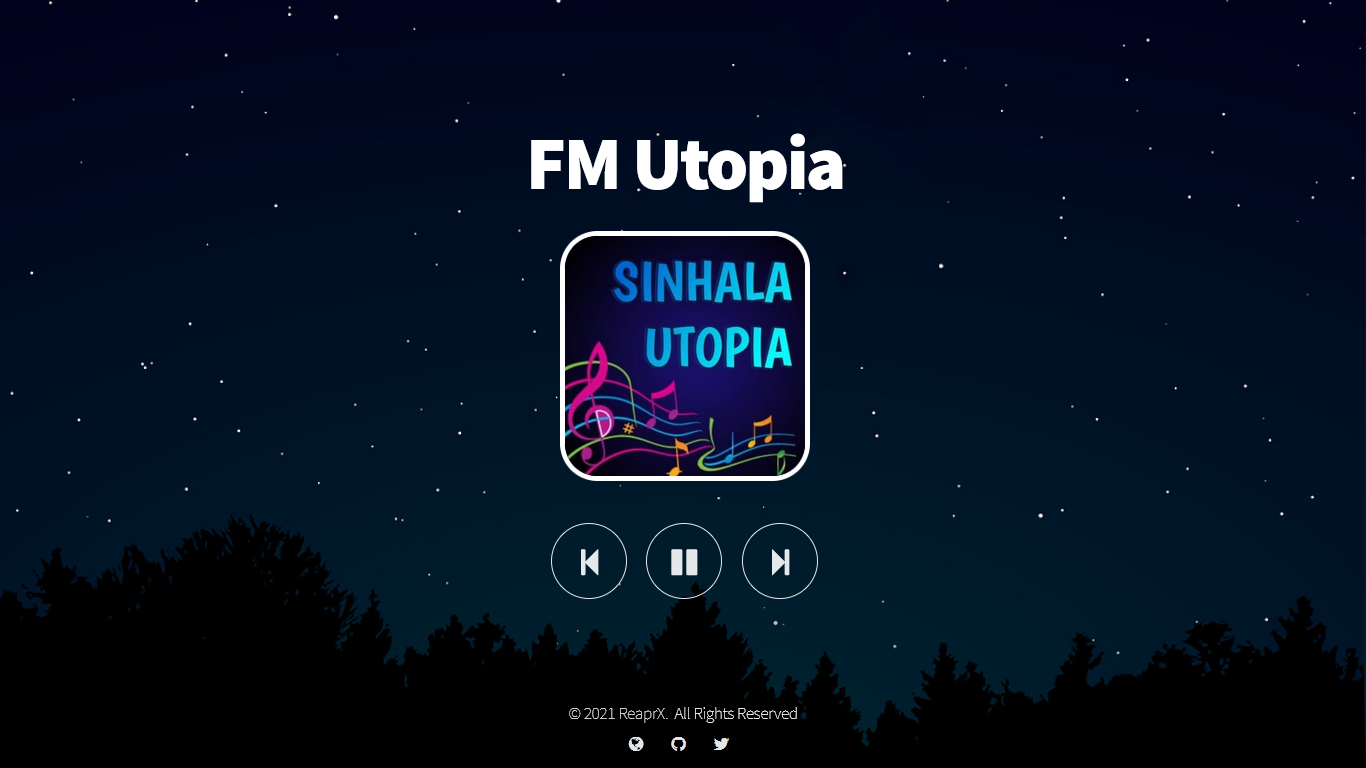
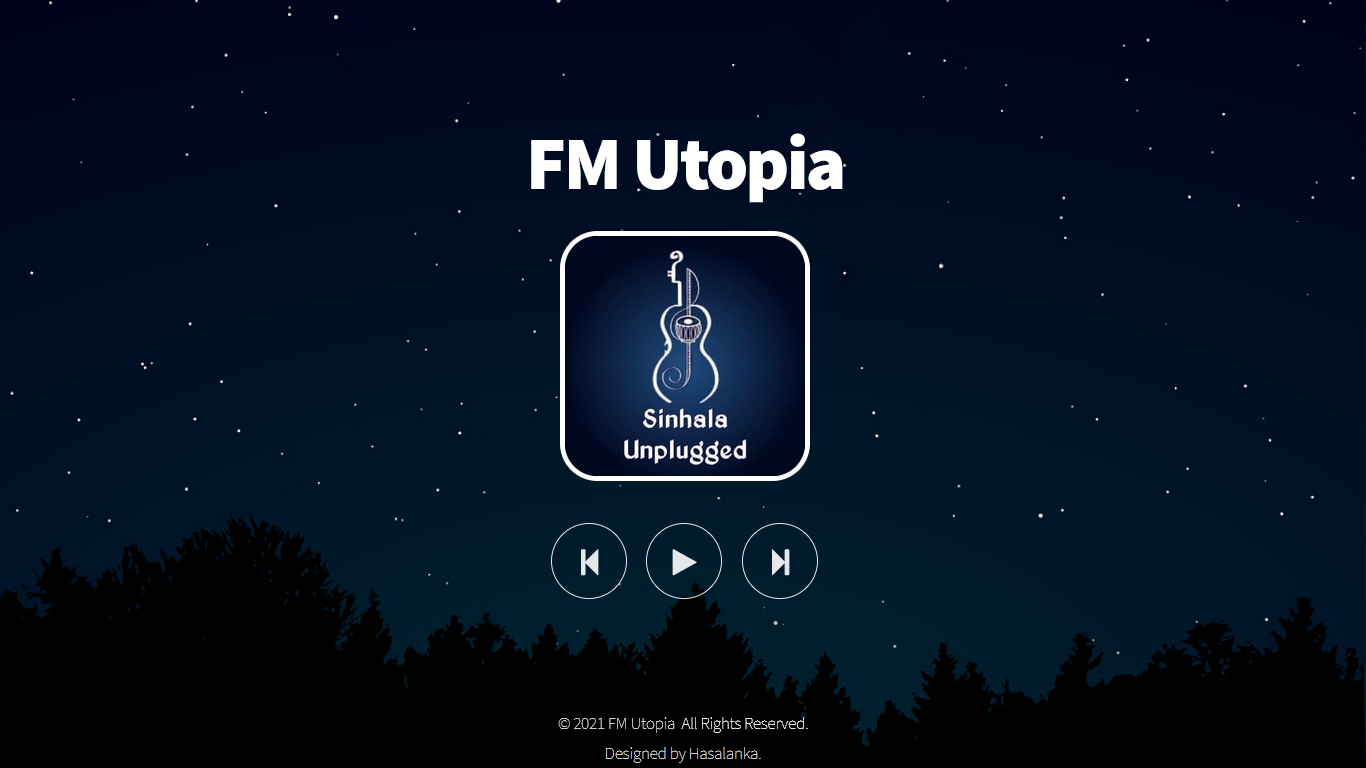
Add new station (#5)
* Add new station

* Update README.md

diff --git a/index.html b/index.html
@@ -4,14 +4,14 @@
 		<title>FM Utopia</title>
 		<meta charset="utf-8" />
 		<meta name="title" content="FM Utopia">
-		<meta name="description" content="FM Utopia is a one of the most popular Online Radio Station in Sri Lanka with multi stations including Sinhala,English and Lo-Fi Music.">
+		<meta name="description" content="FM Utopia is a one of the most popular Online Radio Station in Sri Lanka with few stations including Sinhala,English and Lo-Fi Music.">
 		<meta name="keywords" content="FM Utopia, Utopia FM, Utopia, FM, Online Radio Station, Utopia Radio,Sri Lanka">
 		<meta name="robots" content="index, follow">
 		<meta name="language" content="English">
 		<meta name="author" content="Hasalanka Seneviratne">
 		<meta itemprop="image" src="assets/css/images/Capture.PNG" />
 		<meta name="twitter:title" content="FM Utopia">
-		<meta name="twitter:description" content="FM Utopia is a one of the most popular Online Radio Station in Sri Lanka with multi stations including Sinhala,English and Lo-Fi Music."">
+		<meta name="twitter:description" content="FM Utopia is a one of the most popular Online Radio Station in Sri Lanka with few stations including Sinhala,English and Lo-Fi Music.">
 		<meta name="twitter:image" content="assets/css/images/Capture.PNG">
 		<meta name="twitter:card" content="summary_large_image">
 		<meta name="viewport" content="width=device-width, initial-scale=1" />
@@ -55,8 +55,8 @@
 			</div>
 		</div>
 		<div class="footer">
-			<p align="center"><a href="https://FmUtopia.tk">© 2021 FM Utopia. </a>&nbsp; All Rights Reserved</p>
-			<p><a href="https://reaprx.tk" target="_blank">Designed by Hasalanka</a></p>			
+			<p align="center"><a href="https://FmUtopia.tk">© 2021 FM Utopia.</a>&nbsp; All Rights Reserved</p>
+            <p><a href="https://reaprx.tk" target="_blank">Designed by Hasalanka.</a></p>			
          </div>
 		<script>
 			window.onload = function() { document.body.className = ''; }

diff --git a/playback.js b/playback.js
@@ -1,7 +1,8 @@
 const sources = [
   "http://stream.zeno.fm/ffzk298hx38uv", // sinhala
   "http://stream.zeno.fm/fgrwvmd8u18uv", // english
-  "http://stream.zeno.fm/zkq78rdky38uv",
+  "http://stream.zeno.fm/zkq78rdky38uv", // LO-FI
+  "http://stream.zeno.fm/n8btvhybyf9uv", // Trance
 ];
 
 
@@ -9,6 +10,7 @@ const stimages = [
 	"assets/css/images/img1.jpg",
 	"assets/css/images/img2.jpg",
 	"assets/css/images/img3.jpg",
+    "assets/css/images/img4.jpg",
 ]
 
 let playingIndex = 0; // current radio
@@ -17,7 +19,7 @@ let music = null;
 
 setTimeout(function(){
     loadStream(playingIndex);
-}, 1);
+}, 3);
 
 function loadStream(index){
   if(playing && music !== null){
@@ -42,7 +44,7 @@ function destroyStream(){
 
 function forward(){
 	destroyStream();
-	if(playingIndex<2){
+	if(playingIndex<3){
 		playingIndex += 1
 	} else {
 		playingIndex = 0
@@ -55,7 +57,7 @@ function backward(){
 	if(playingIndex>0){
 		playingIndex -= 1
 	} else {
-		playingIndex = 2
+		playingIndex = 3
 	};
 	loadStream(playingIndex);		
 }	

diff --git a/README.md b/README.md
@@ -5,13 +5,13 @@
 ****
 <p align="center">
 <img src="https://api.netlify.com/api/v1/badges/58656c70-c9ab-4630-8ae8-f0573a006973/deploy-status">
-<img src="https://img.shields.io/github/forks/reaprx/fm-utopia-web?style=for-the-badge">
-<img src="https://img.shields.io/github/stars/reaprx/fm-utopia-web?style=for-the-badge">
-<img src="https://img.shields.io/github/issues/reaprx/fm-utopia-web?style=for-the-badge">
-<img src="https://img.shields.io/github/search/reaprx/fm-utopia-web/Hit?style=for-the-badge">
-<img src="https://img.shields.io/github/repo-size/reaprx/fm-utopia-web?style=for-the-badge">
-<img src="https://img.shields.io/github/last-commit/reaprx/fm-utopia-web?style=for-the-badge">
-<img src="https://img.shields.io/github/contributors/reaprx/fm-utopia-web?style=for-the-badge&color=blue">
+<img src="https://img.shields.io/github/forks/reaprx/fm-utopia?style=for-the-badge">
+<img src="https://img.shields.io/github/stars/reaprx/fm-utopia?style=for-the-badge">
+<img src="https://img.shields.io/github/issues/reaprx/fm-utopia?style=for-the-badge">
+<img src="https://img.shields.io/github/search/reaprx/fm-utopia/Hit?style=for-the-badge">
+<img src="https://img.shields.io/github/repo-size/reaprx/fm-utopia?style=for-the-badge">
+<img src="https://img.shields.io/github/last-commit/reaprx/fm-utopia?style=for-the-badge">
+<img src="https://img.shields.io/github/contributors/reaprx/fm-utopia?style=for-the-badge&color=blue">
 </p>
 
 ****
